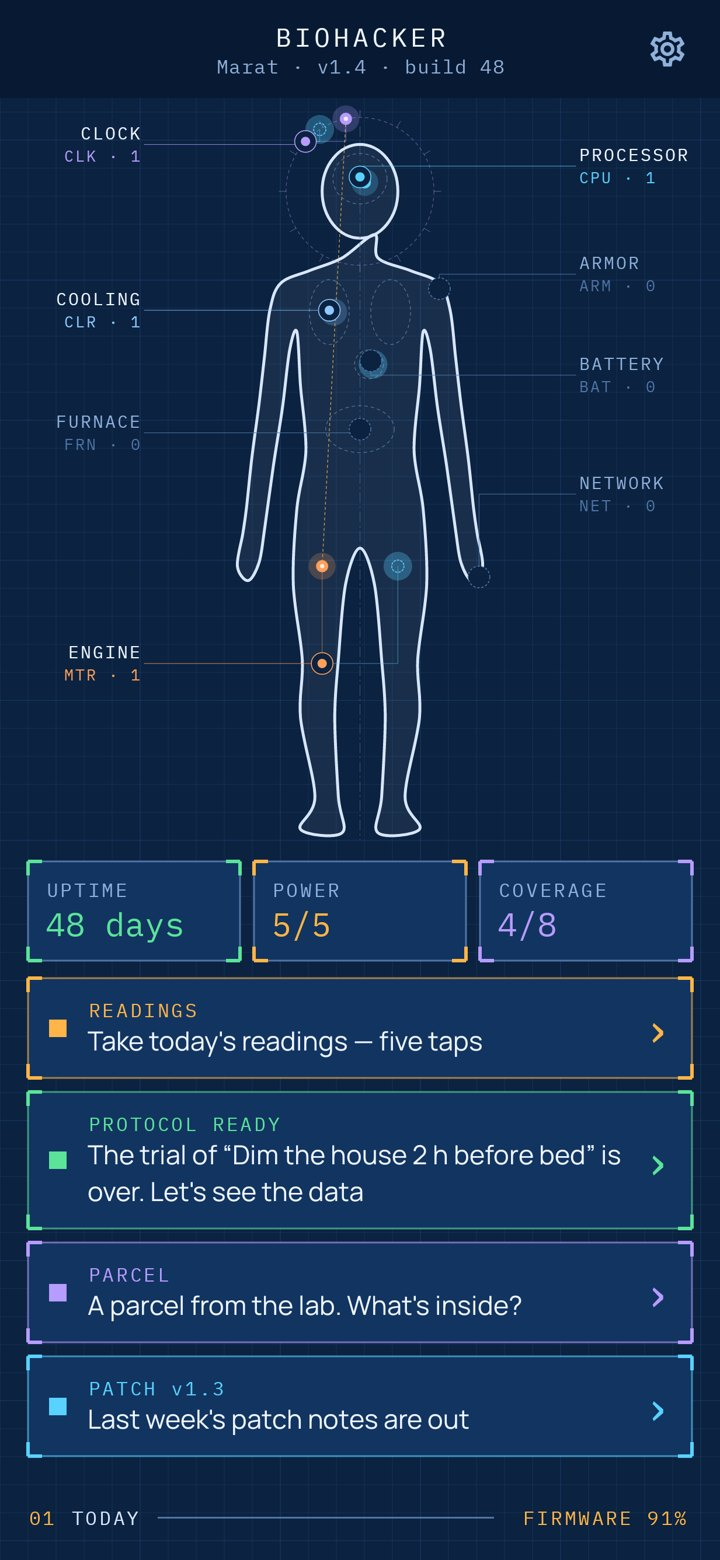
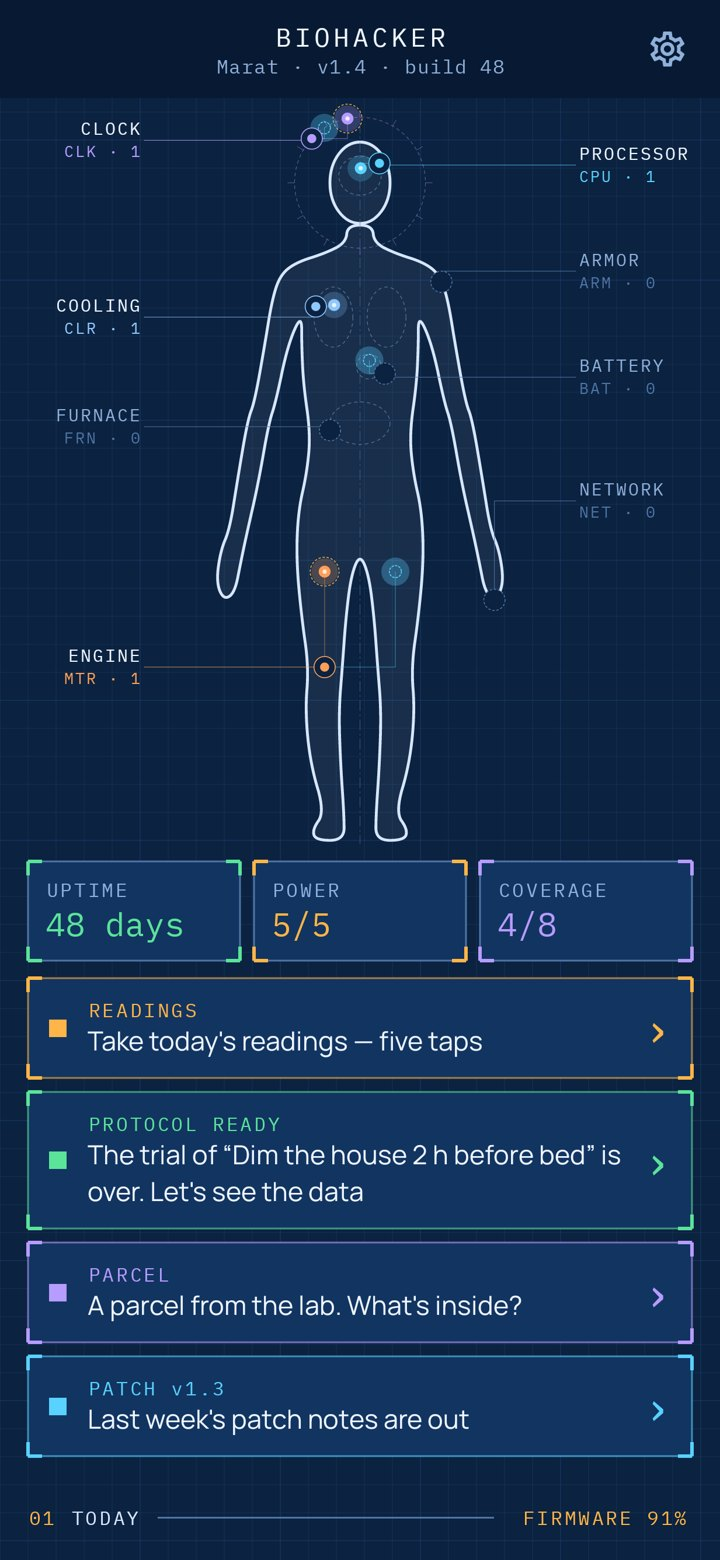
Cleaner body outline; back closes screens
The figure is redrawn eight heads tall with arms a little out, smoothed
by corner cutting so joints no longer loop. Hubs sit at organ edges,
combos show as gold rings instead of lines across the body. Back now
closes the open screen instead of the app. gradlew is executable for CI.

diff --git a/app/src/main/java/app/biohacker/ui/art/Blueprint.kt b/app/src/main/java/app/biohacker/ui/art/Blueprint.kt
@@ -52,49 +52,52 @@ class Plan(val nodes: List<Node>, val labels: Map<Sys, String>, val links: List<
  * the armour along the limbs and the network out past the hands.
  */
 object Body {
-    const val TOP = -6f
+    const val TOP = -14f
     const val BOTTOM = 404f
-    val head = Offset(0f, 38f)
-    const val HEAD_RX = 21f
-    const val HEAD_RY = 26f
-    const val RING = 41f
+    val head = Offset(0f, 26f)
+    const val HEAD_RX = 17f
+    const val HEAD_RY = 23f
+    const val RING = 37f
 
-    /** The right half of the outline, from the neck down to the crotch; the left is its mirror. */
+    /** The right half of the outline, from the neck down the arm and leg to the crotch; the left is its mirror. Eight heads tall, arms a little out. */
     private val right = listOf(
-        Offset(8f, 62f), Offset(10f, 75f), Offset(28f, 82f), Offset(44f, 89f), Offset(50f, 104f), Offset(53f, 130f), Offset(56f, 156f),
-        Offset(60f, 186f), Offset(63f, 214f), Offset(65f, 228f), Offset(68f, 246f), Offset(62f, 254f), Offset(56f, 244f), Offset(53f, 226f),
-        Offset(48f, 190f), Offset(43f, 158f), Offset(39f, 126f), Offset(35f, 116f), Offset(33f, 146f), Offset(30f, 182f), Offset(35f, 214f),
-        Offset(37f, 256f), Offset(32f, 298f), Offset(33f, 330f), Offset(25f, 374f), Offset(33f, 392f), Offset(10f, 394f), Offset(12f, 374f),
-        Offset(14f, 330f), Offset(12f, 298f), Offset(8f, 256f), Offset(0f, 236f),
+        Offset(7f, 50f), Offset(8f, 60f), Offset(20f, 66f), Offset(36f, 71f), Offset(45f, 78f), Offset(49.7f, 92f), Offset(53.9f, 118f),
+        Offset(59.6f, 150f), Offset(63.5f, 160f), Offset(69.4f, 195f), Offset(73.7f, 222f), Offset(78.8f, 234f), Offset(81.3f, 252f), Offset(77.1f, 262f),
+        Offset(70.8f, 258f), Offset(67.3f, 240f), Offset(63.9f, 224f), Offset(57.5f, 196f), Offset(51.6f, 162f), Offset(47.6f, 150f), Offset(40.9f, 118f),
+        Offset(33f, 100f), Offset(33f, 118f), Offset(32f, 140f), Offset(28f, 168f), Offset(30f, 190f), Offset(35f, 212f), Offset(36f, 240f),
+        Offset(33f, 272f), Offset(29f, 300f), Offset(31f, 325f), Offset(28f, 355f), Offset(20f, 382f), Offset(27f, 392f), Offset(25f, 398f),
+        Offset(9f, 398f), Offset(9f, 384f), Offset(11f, 355f), Offset(12f, 325f), Offset(10f, 300f), Offset(8f, 272f), Offset(5f, 248f),
+        Offset(0f, 236f),
     )
 
     val hubs: Map<Sys, Offset> = mapOf(
         Sys.SLEEP to Offset(head.x + RING * cos(-2.4f), head.y + RING * sin(-2.4f)),
-        Sys.MIND to Offset(0f, 30f),
-        Sys.CALM to Offset(-17f, 104f),
-        Sys.JOY to Offset(6f, 132f),
-        Sys.FUEL to Offset(0f, 170f),
-        Sys.SHIELD to Offset(44f, 92f),
-        Sys.MOVE to Offset(-21f, 300f),
-        Sys.LINK to Offset(66f, 252f),
+        Sys.MIND to Offset(11f, 15f),
+        Sys.CALM to Offset(-25f, 96f),
+        Sys.JOY to Offset(14f, 134f),
+        Sys.FUEL to Offset(-17f, 166f),
+        Sys.SHIELD to Offset(46f, 82f),
+        Sys.MOVE to Offset(-20f, 300f),
+        Sys.LINK to Offset(76f, 262f),
     )
 
     /** Where each system's label sits (unit y) and on which side. */
     val labels: Map<Sys, Pair<Float, Boolean>> = mapOf(
-        Sys.SLEEP to (12f to false), Sys.CALM to (104f to false), Sys.FUEL to (172f to false), Sys.MOVE to (300f to false),
-        Sys.MIND to (24f to true), Sys.SHIELD to (84f to true), Sys.JOY to (140f to true), Sys.LINK to (206f to true),
+        Sys.SLEEP to (2f to false), Sys.CALM to (102f to false), Sys.FUEL to (164f to false), Sys.MOVE to (300f to false),
+        Sys.MIND to (16f to true), Sys.SHIELD to (76f to true), Sys.JOY to (136f to true), Sys.LINK to (206f to true),
     )
 
     /** The [i]-th point of a sunflower spread filling an ellipse at about [n] points. */
     private fun sunflower(c: Offset, rx: Float, ry: Float, i: Int, n: Int = 12): Offset {
-        val r = sqrt((i + .5f) / n).coerceAtMost(1.35f)
-        val a = i * 2.39996f
+        val k = i + 2
+        val r = sqrt((k + .5f) / (n + 2)).coerceAtMost(1.35f)
+        val a = k * 2.39996f
         return Offset(c.x + rx * r * cos(a), c.y + ry * r * sin(a))
     }
 
     /** The [i]-th node position of a system. */
     fun slot(s: Sys, i: Int): Offset = when (s) {
-        Sys.MIND -> sunflower(Offset(0f, 33f), 13f, 13f, i)
+        Sys.MIND -> sunflower(Offset(0f, 22f), 11f, 10f, i)
         Sys.SLEEP -> {
             val ring = i / 11
             val k = i % 11
@@ -103,38 +106,38 @@ object Body {
             val r = RING + ring * 8f
             Offset(head.x + r * cos(a), head.y + r * sin(a))
         }
-        Sys.CALM -> { val side = if (i % 2 == 0) -1f else 1f; sunflower(Offset(17f * side, 105f), 9f, 15f, i / 2, 7) }
-        Sys.JOY -> sunflower(Offset(5f, 134f), 9f, 9f, i, 8)
-        Sys.FUEL -> sunflower(Offset(0f, 170f), 18f, 12f, i)
+        Sys.CALM -> { val side = if (i % 2 == 0) -1f else 1f; sunflower(Offset(15f * side, 102f), 8f, 13f, i / 2, 7) }
+        Sys.JOY -> sunflower(Offset(5f, 130f), 7f, 7f, i, 8)
+        Sys.FUEL -> sunflower(Offset(0f, 162f), 16f, 10f, i)
         Sys.SHIELD -> {
             val side = if (i % 2 == 0) 1f else -1f
-            val ys = floatArrayOf(98f, 122f, 146f, 170f, 194f, 218f, 110f, 134f, 158f, 182f, 206f)
+            val ys = floatArrayOf(100f, 124f, 148f, 172f, 196f, 220f, 112f, 136f, 160f, 184f, 208f)
             val y = ys[(i / 2) % ys.size]
-            val x = 45f + (y - 98f) * .118f + (i / 22) * 4f
+            // down the middle of the arm, which leans out a little
+            val x = 47.4f + (y - 118f) * .205f + (i / 22) * 4f
             Offset(x * side, y)
         }
         Sys.MOVE -> {
             val side = if (i % 2 == 0) -1f else 1f
             val ys = floatArrayOf(246f, 272f, 320f, 346f, 368f, 232f, 259f, 284f, 333f, 357f)
             val y = ys[(i / 2) % ys.size]
-            val x = when { y < 290f -> 21f; y < 340f -> 22f - (y - 290f) * .05f; else -> 19f } + (i / 20) * 3f
+            val x = when { y < 290f -> 20f; y < 340f -> 20.5f; else -> 21f - (y - 340f) * .15f } + (i / 20) * 3f
             Offset(x * side, y)
         }
-        Sys.LINK -> { val side = if (i % 2 == 0) 1f else -1f; sunflower(Offset(86f * side, 268f), 16f, 16f, i / 2, 6) }
+        Sys.LINK -> { val side = if (i % 2 == 0) 1f else -1f; sunflower(Offset(86f * side, 292f), 13f, 13f, i / 2, 6) }
     }
 
-    /** A smooth closed outline through the points (Catmull–Rom turned into cubic curves). */
+    /** A smooth closed outline: the corners cut three times (Chaikin), which rounds them without overshooting. */
     fun outline(map: (Offset) -> Offset): Path {
-        val pts = right.map(map) + right.reversed().drop(1).dropLast(1).map { map(Offset(-it.x, it.y)) }
-        val p = Path()
-        val n = pts.size
-        p.moveTo(pts[0].x, pts[0].y)
-        for (i in 0 until n) {
-            val p0 = pts[(i - 1 + n) % n]; val p1 = pts[i]; val p2 = pts[(i + 1) % n]; val p3 = pts[(i + 2) % n]
-            val c1 = p1 + (p2 - p0) / 6f
-            val c2 = p2 - (p3 - p1) / 6f
-            p.cubicTo(c1.x, c1.y, c2.x, c2.y, p2.x, p2.y)
+        var pts = right + right.reversed().drop(1).map { Offset(-it.x, it.y) }
+        repeat(3) {
+            pts = pts.indices.flatMap { i ->
+                val a = pts[i]; val b = pts[(i + 1) % pts.size]
+                listOf(a * .75f + b * .25f, a * .25f + b * .75f)
+            }
         }
+        val p = Path()
+        pts.map(map).forEachIndexed { i, o -> if (i == 0) p.moveTo(o.x, o.y) else p.lineTo(o.x, o.y) }
         p.close()
         return p
     }
@@ -194,17 +197,17 @@ private fun DrawScope.drawBody(g: Geo) {
     drawOval(C.line.copy(alpha = .06f), Offset(c.x - Body.HEAD_RX * g.k, c.y - Body.HEAD_RY * g.k), Size(2 * Body.HEAD_RX * g.k, 2 * Body.HEAD_RY * g.k))
     drawOval(C.line, Offset(c.x - Body.HEAD_RX * g.k, c.y - Body.HEAD_RY * g.k), Size(2 * Body.HEAD_RX * g.k, 2 * Body.HEAD_RY * g.k), style = Stroke(w))
     // midline, dash-dot
-    drawLine(C.faint.copy(alpha = .7f), g.at(Offset(0f, 2f)), g.at(Offset(0f, 398f)), 1f, pathEffect = PathEffect.dashPathEffect(floatArrayOf(18f, 6f, 3f, 6f)))
+    drawLine(C.faint.copy(alpha = .7f), g.at(Offset(0f, -8f)), g.at(Offset(0f, 400f)), 1f, pathEffect = PathEffect.dashPathEffect(floatArrayOf(18f, 6f, 3f, 6f)))
     // organs, dashed
     val dash = PathEffect.dashPathEffect(floatArrayOf(6f, 5f))
     fun oval(cu: Offset, rx: Float, ry: Float) {
         val p = g.at(cu)
         drawOval(C.muted.copy(alpha = .55f), Offset(p.x - rx * g.k, p.y - ry * g.k), Size(2 * rx * g.k, 2 * ry * g.k), style = Stroke(1.2f, pathEffect = dash))
     }
-    oval(Offset(0f, 31f), 15f, 14f)
-    oval(Offset(-17f, 105f), 11f, 18f); oval(Offset(17f, 105f), 11f, 18f)
-    oval(Offset(5f, 134f), 8f, 8f)
-    oval(Offset(0f, 170f), 19f, 13f)
+    oval(Offset(0f, 22f), 12f, 11f)
+    oval(Offset(-15f, 102f), 11f, 17f); oval(Offset(15f, 102f), 11f, 17f)
+    oval(Offset(5f, 130f), 7f, 7f)
+    oval(Offset(0f, 162f), 17f, 12f)
     // the clock dial round the head
     drawCircle(C.sys(Sys.SLEEP).copy(alpha = .45f), Body.RING * g.k, c, style = Stroke(1.2f, pathEffect = dash))
     for (i in 0 until 12) {
@@ -218,13 +221,8 @@ private val LABEL = TextStyle(fontFamily = Mono, fontSize = 10.sp, letterSpacing
 
 private fun DrawScope.drawSystems(g: Geo, nodes: Map<Sys, List<Node>>, plan: Plan, tm: TextMeasurer, pulse: Float) {
     val r = 3.4f * g.k
-    // combo links first, so nodes sit on top
-    val firstByTag = HashMap<String, Offset>()
-    for (s in Sys.entries) nodes[s].orEmpty().forEachIndexed { i, n -> if (n.state != NodeState.RUN) firstByTag.putIfAbsent(n.tagKey, g.at(Body.slot(s, i))) }
-    for (link in plan.links) {
-        val ps = link.mapNotNull { firstByTag[it] }
-        for (i in 0 until ps.size - 1) drawLine(C.amber.copy(alpha = .75f), ps[i], ps[i + 1], 1.4f, pathEffect = PathEffect.dashPathEffect(floatArrayOf(5f, 4f)))
-    }
+    // tags that make up a found combo: their first installed node gets a gold ring
+    val comboTags = plan.links.flatten().toSet()
     for (s in Sys.entries) {
         val col = C.sys(s)
         val hub = g.at(Body.hubs.getValue(s))
@@ -256,6 +254,8 @@ private fun DrawScope.drawSystems(g: Geo, nodes: Map<Sys, List<Node>>, plan: Pla
             val p = g.at(Body.slot(s, i))
             when (n.state) {
                 NodeState.ON -> {
+                    if (n.tagKey in comboTags && list.indexOfFirst { it.tagKey == n.tagKey && it.state != NodeState.RUN } == i)
+                        drawCircle(C.amber, r * 2.4f, p, style = Stroke(1.4f, pathEffect = PathEffect.dashPathEffect(floatArrayOf(4f, 3f))))
                     drawCircle(col.copy(alpha = .22f), r * 2.2f, p)
                     drawCircle(col, r, p)
                     drawCircle(Color.White.copy(alpha = .8f), r * .35f, p)

diff --git a/app/src/main/java/app/biohacker/ui/Root.kt b/app/src/main/java/app/biohacker/ui/Root.kt
@@ -145,6 +145,7 @@ fun BiohackerRoot(settings: Settings) {
     val overlays = remember { mutableStateListOf<Overlay>() }
     fun push(o: Overlay) = overlays.add(o)
     fun pop() { if (overlays.isNotEmpty()) overlays.removeAt(overlays.lastIndex) }
+    BackHandler(enabled = overlays.isNotEmpty()) { pop() }
     BackHandler(enabled = overlays.isEmpty() && tab != Tab.BLUEPRINT) { tab = Tab.BLUEPRINT }
     val nav = Nav(
         tab = { overlays.clear(); tab = it },
